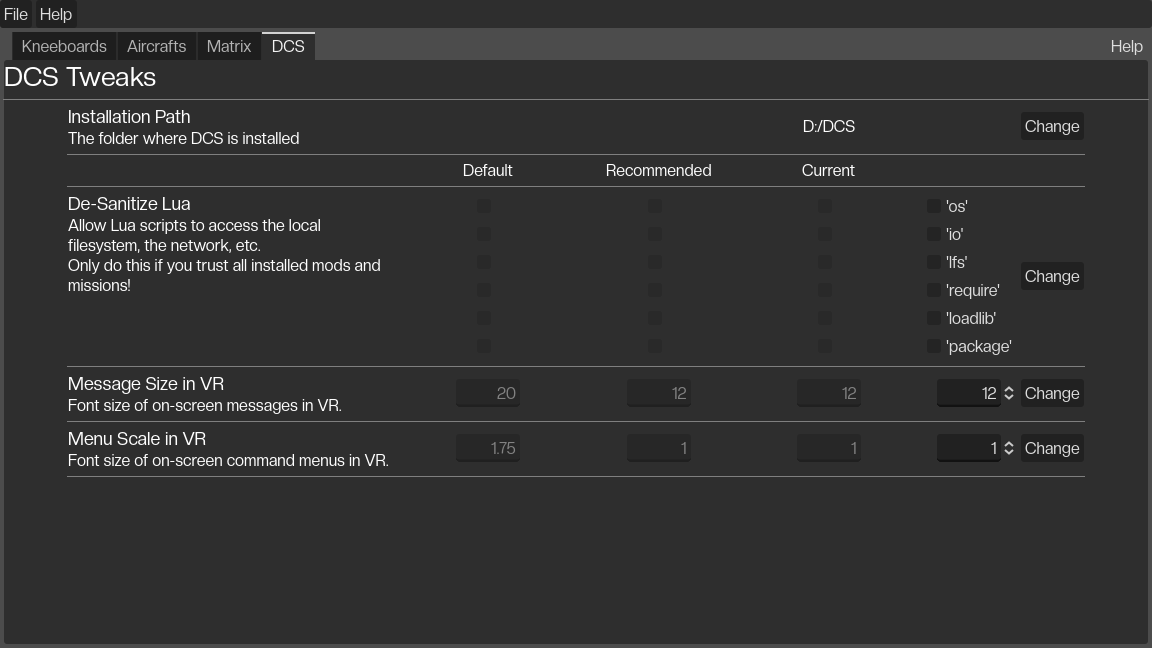
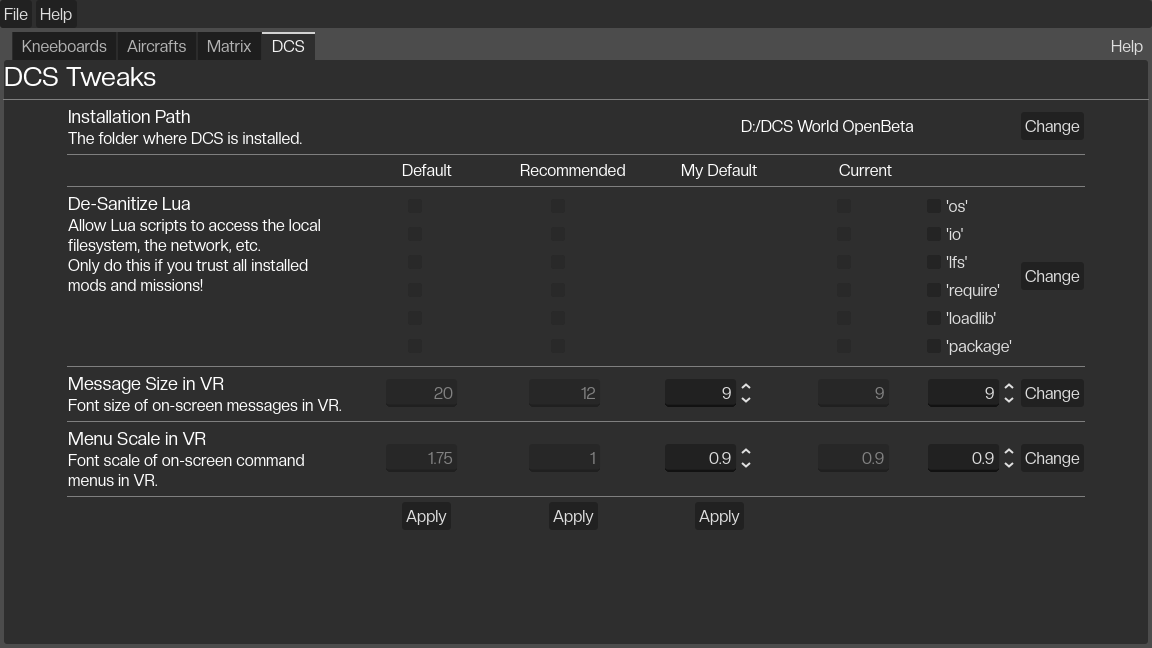
Prepare release 0.0.5-1
- Update Readme
- Update screenshots
  - Browser: Configuration
  - Dialog: Kneeboard Browser
  - Tab: DCS Tweaks

diff --git a/README.md b/README.md
@@ -9,12 +9,12 @@
 
 <img src="images/tab_kneeboards.png" style="width: 48%; float: left;" alt="Screenshot Kneeboards Tab"/>   <img src="images/tab_matrix.png" style="width: 48%; float: left;" alt="Screenshot Matrix Tab"/>
 
-Latest Version: [0.0.5](//github.com/dantei-dev/Kneeboard-Manager-Releases/releases) (2025-03-19)  
+Latest Version: [0.0.5-1](//github.com/dantei-dev/Kneeboard-Manager-Releases/releases) (2025-03-30)  
 Latest Highlights:
-- Matrix: Aircraft labels stay always visible
-- Several bugfixes, including several crashes (invalid config, invalid images files, ..)
 - "DCS Tweaks" tab, allows changing text size in VR and de-sanitizing Lua
+- Command-line options to apply "DCS Tweaks" to text sizes without need of the UI
 - Remember and restore window size
+- Several bugfixes, including several crashes (invalid config, invalid images files, ..)
 
 The *Kneeboard Manager* allows to easily manage and organize multiple kneeboards between multiple DCS aircrafts.
 No more need to copy dozens of files manually into multiple directories.  
@@ -24,6 +24,7 @@ No more mixed files from different kneeboards.
 You can manage the available kneeboards in the *Kneeboards* tab.  
 You can manage available DCS aircrafts in the *Aircrafts* tab.  
 You can assign kneeboards to aircrafts in the *Matrix* tab.  
+You can tweak some DCS settings in the *DCS* tab.  
 
 Built-in documenation is available via *Menu > Help > Documentation...*.  
 
@@ -39,7 +40,7 @@ Features:
 - Convert JPG to PNG when copying kneeboards to aircrafts
 - Built-in documentation
 - Built-in image viewer
-- "DCS Tweaks": Change message screen size for VR and/or desanitize Lua
+- "DCS Tweaks": Change message screen size for VR and/or desanitize Lua (usable without UI)
 
 For the change log, see the [releases](//github.com/dantei-dev/Kneeboard-Manager-Releases/releases/).
 
